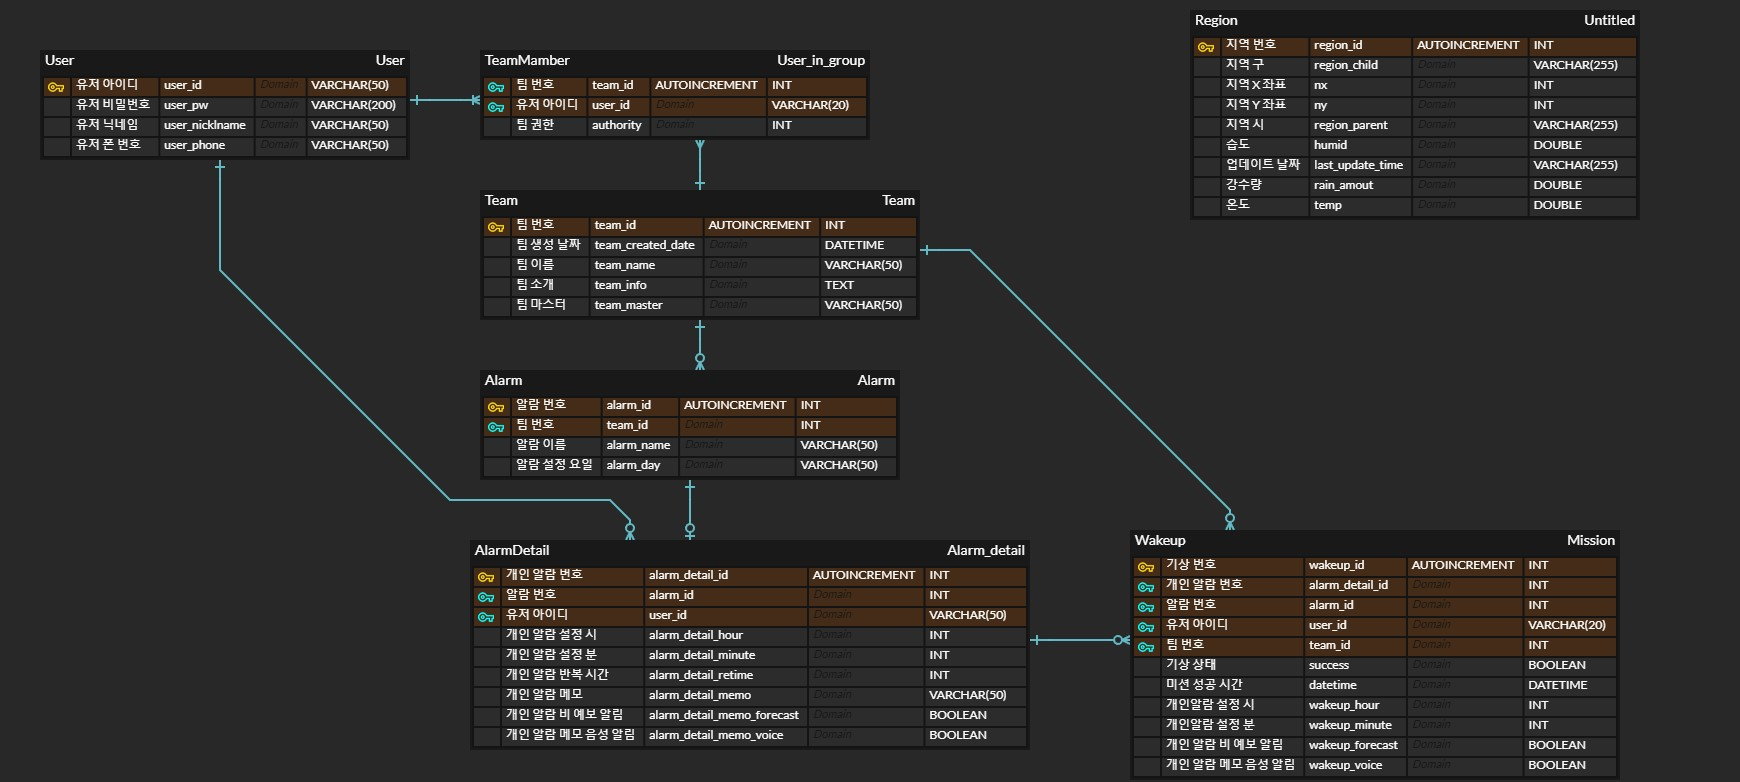
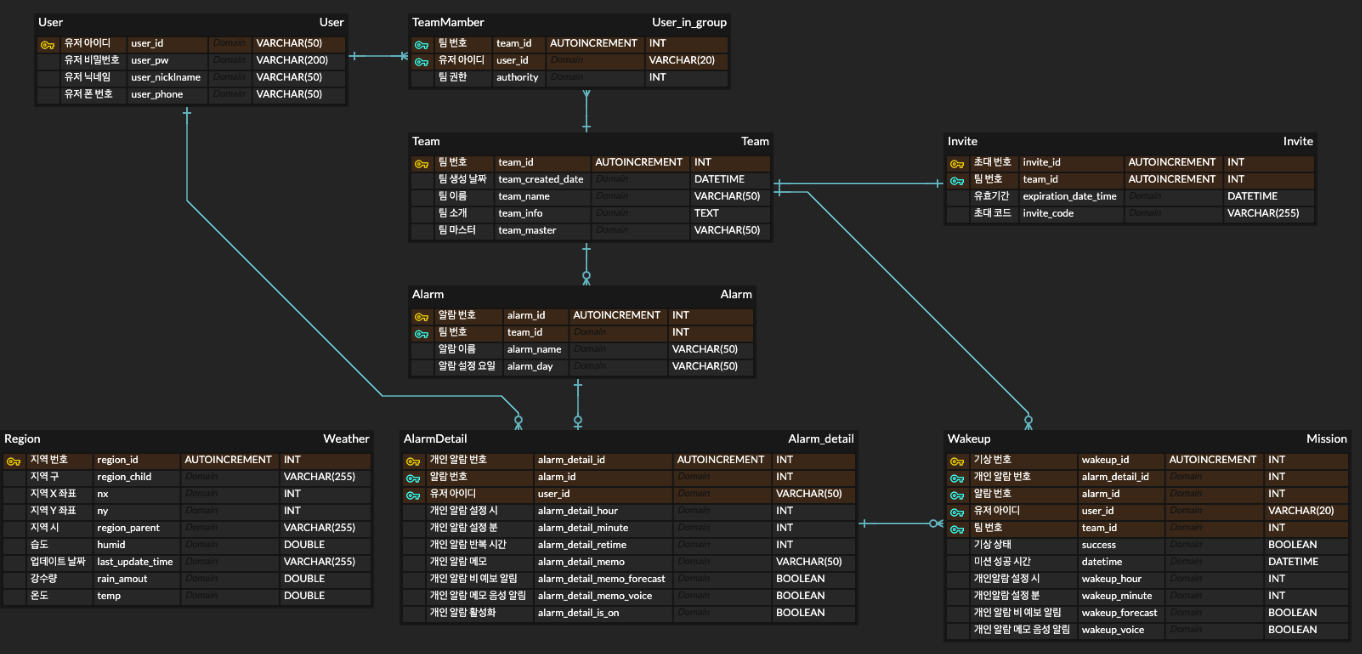
update README.md

diff --git a/README.md b/README.md
@@ -2,4 +2,113 @@
 
 ---
 
-## Back-End Repo입니다.
+## 😎 Member 😎
+
+| 오하빈                                                  | 최재성                                            |
+|------------------------------------------------------|------------------------------------------------|
+| <img src="image/img_2.png" width="450" height="300"> | <img src="image/img_1.png" width="450" height="300"> |
+| 담당 기능                                                | 담당 기능                                               |
+| User, Weather, CI/CD                                 | Team, Alarm, Alarm Detail                      |
+
+| 공통 개발                                       |
+|------------------------------------------------|
+| Team Member, Wakeup, Swagger, 서버 구축, DB 설계 및 관리 |
+
+
+오하빈 : https://github.com/HABINOH <br>
+최재성 : https://github.com/choe-jaeseong
+
+
+---
+
+## 🦾 기술 스택 🦾
+|<img src="image/img_9.png" width="50" height="80">|<img src="image/img_3.png" width="80" height="80">|<img src="image/img_4.png" width="80" height="80">|<img src="image/img_11.png" width="80" height="80">|
+|---|--|-|-|
+|<img src="image/img_5.png" width="80" height="80">|<img src="image/img_6.png" width="80" height="80">|<img src="image/img_7.png" width="80" height="80">|<img src="image/img_8.png" width="100" height="80">|
+
+---
+
+## 📌개발 환경📌
+
+#### 버전
+- SpringBoot 3.1.6
+- JDK 17
+- Mysql 8.0.33
+- Ubuntu 22.04.3 LTS
+- Docker 24.0.5
+#### 관리
+- Github, IntelliJ
+
+---
+
+## 📢 DB 요구사항 📢
+
+1. 유저는 UserID로 구분한다.
+2. 유저는 여러 팀에 속할 수 있다.
+3. 유저는 초대 코드를 통해 팀에 가입할 수 있다. 
+4. 유저는 팀마다 권한을 부여 받을 수 있다. (팀장, 팀원)
+5. 팀은 TeamID로 구분한다. 
+6. 팀 별로 팀 알람과 유저 개인 알람을 설정할 수 있다. 
+7. 팀 알람과 개인 알람은 여러 개 설정할 수 있다. 
+8. 각 알람마다 기상여부를 기록할 수 있다. 
+9. 기상 성공 여부를 반환할 수 있다. 
+10. 날씨 정보를 기상청 API를 통해 저장 할 수있다.
+
+---
+
+## 📃 DB 설계 📃
+
+![img_12.png](image/img_12.png)
+
+---
+
+## 🚗 Back-End 동작 흐름 🚗
+
+![img_14.png](image/img_14.png)
+
+---
+
+## 🚗 Back-End 내부 동작 흐름 🚗
+
+![img_17.png](image/img_17.png)
+
+---
+
+## 🚗 Back-End 배포 동작 과정 🚗
+
+![img_15.png](image/img_15.png)
+
+---
+
+## ✨기능✨
+
+### 1. User
+![img_13.png](image/img_13.png)
+
+### 2. Team
+![img_21.png](image/img_21.png)
+
+### 3. Team Member
+![img_22.png](image/img_22.png)
+
+### 4. Invite
+![img_27.png](image/img_27.png)
+
+### 5. Alarm
+![img_23.png](image/img_23.png)
+
+### 6. Alarm Detail
+![img_24.png](image/img_24.png)
+
+### 7. Wakeup
+![img_25.png](image/img_25.png)
+
+### 8. Weather
+![img_26.png](image/img_26.png)
+
+---
+
+## 💘회고💘
+| 오하빈        | 최재성 |
+|------------|-----|
+| 힘들었다..<br> | 나도..|
